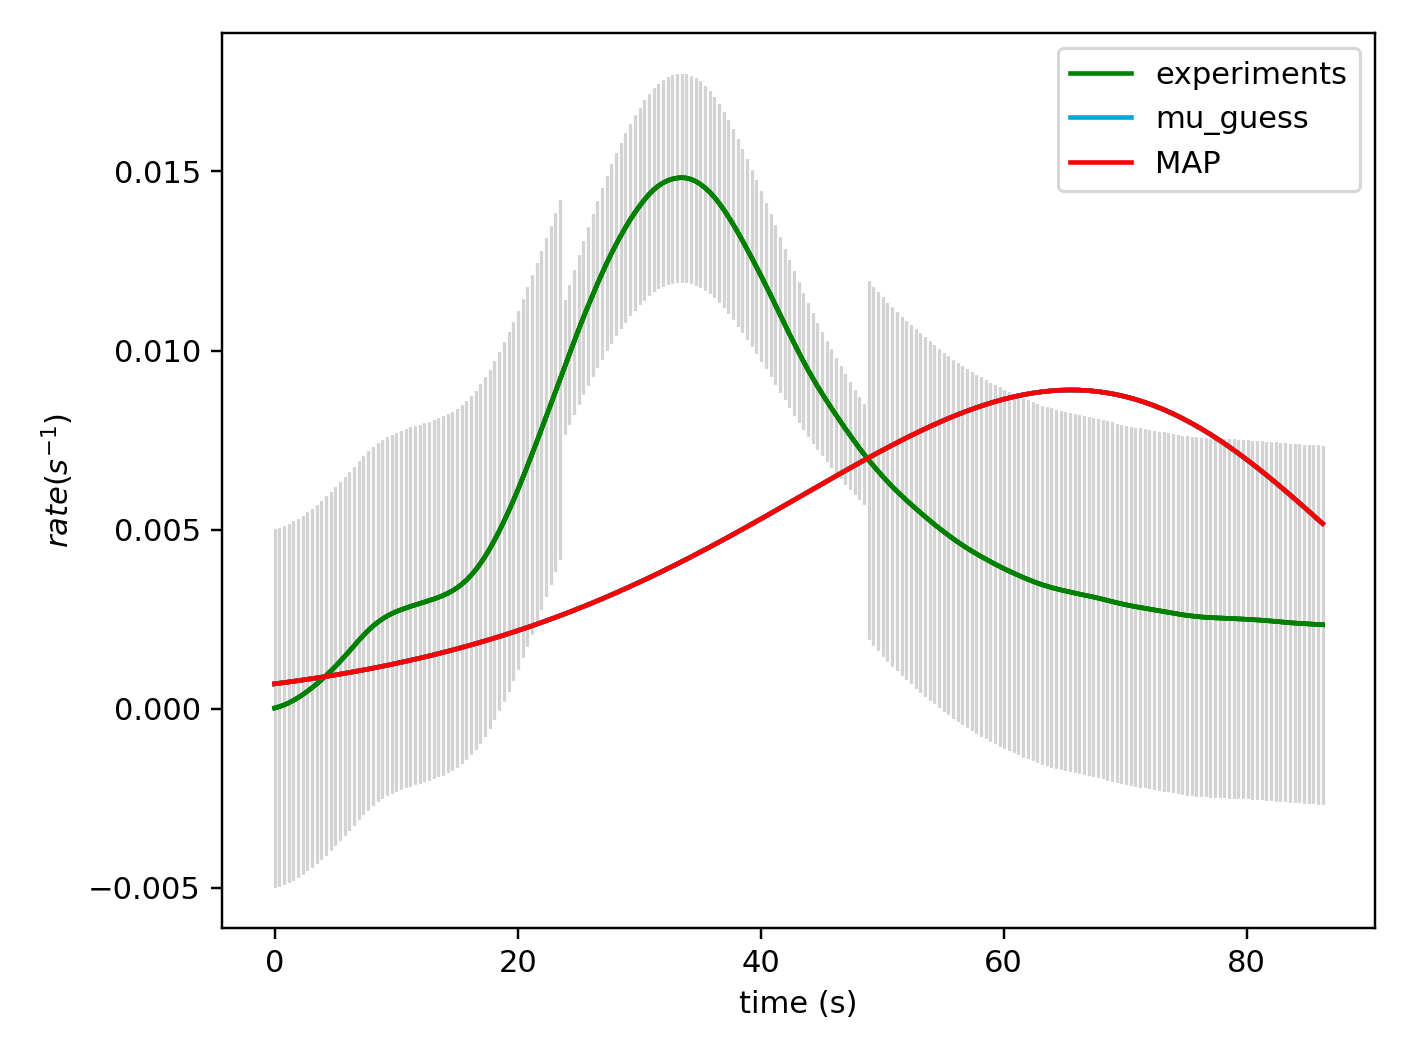
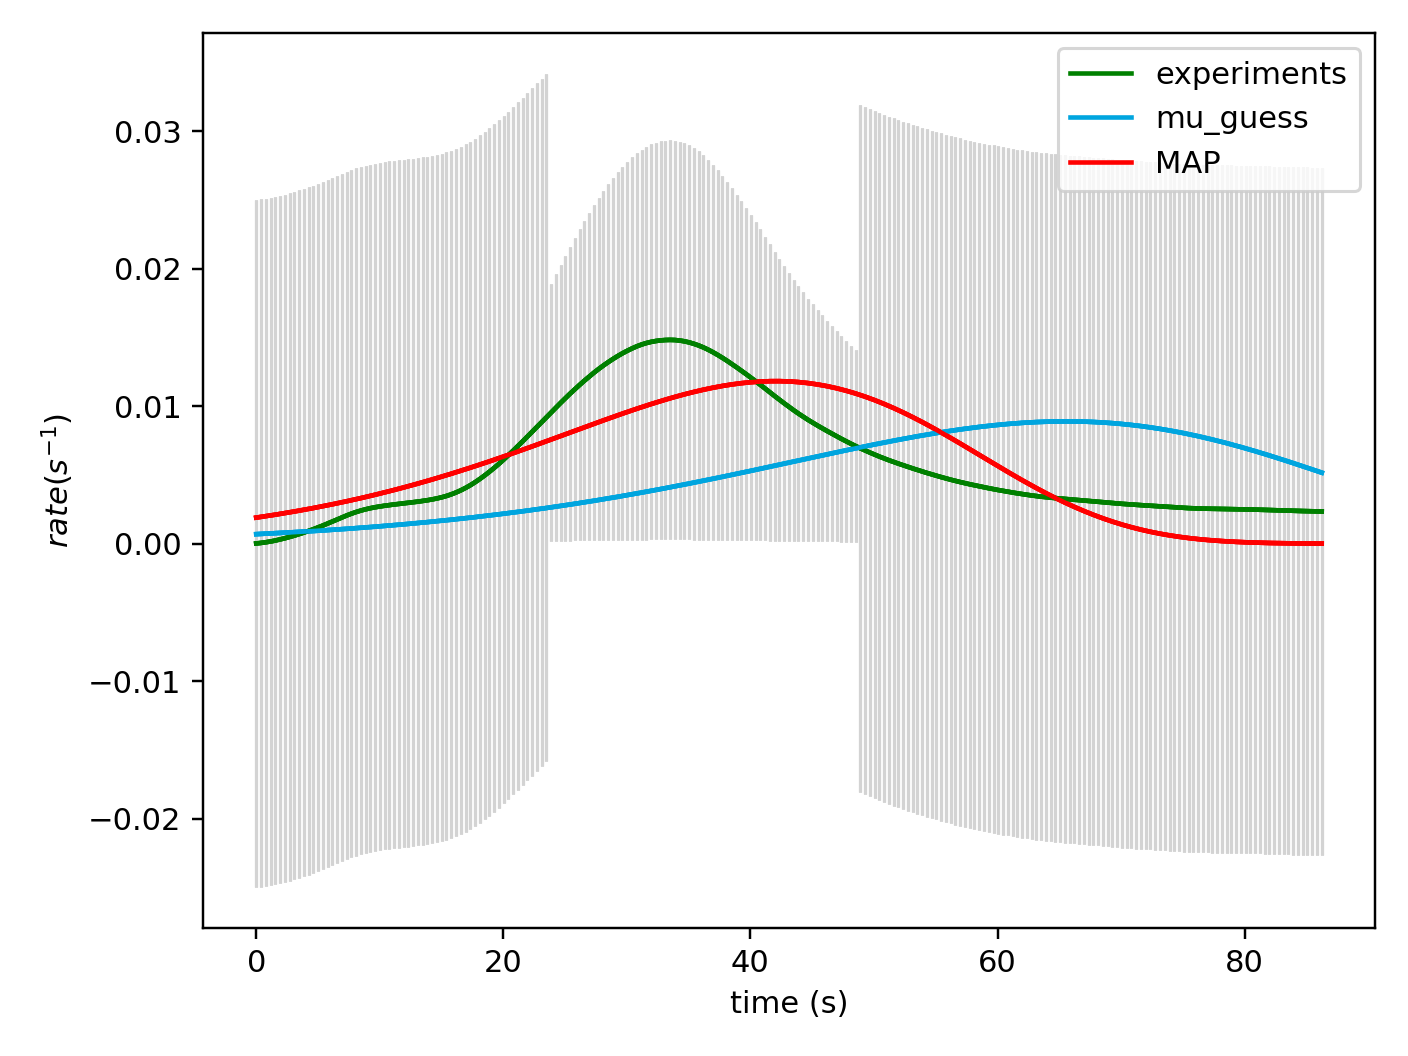
Add files via upload
'getLikelihood' now 'getLogLikelihood'; "getPrior" changed to "getLogPrior"; Metropolis Hastings functions uses the new functions;  'Accept_probability' changed to addition and subtraction due to log form; uniform random number transformed as a power of 10 (log's are log10's)

diff --git a/CheKiPEUQ.py b/CheKiPEUQ.py
@@ -223,10 +223,10 @@ class parameter_estimation:
             
 
     def getLogP(self, proposal_sample): #The proposal sample is specific parameter vector.
-        [likelihood_proposal, simulationOutput_proposal] = self.getLikelihood(proposal_sample)
-        prior_proposal = self.getPrior(proposal_sample)
-        log_postererior = np.log(likelihood_proposal) + np.log(prior_proposal)
-        return log_postererior, simulationOutput_proposal
+        [likelihood_proposal, simulationOutput_proposal] = self.getLogLikelihood(proposal_sample)
+        prior_proposal = self.getLogPrior(proposal_sample)
+        log_numerator_or_denominator = likelihood_proposal+prior_proposal #Of the Metropolis-Hastings accept/reject ratio
+        return log_numerator_or_denominator
         
     def getNegLogP(self, proposal_sample): #The proposal sample is specific parameter vector. We are using negative of log P because scipy optimize doesn't do maximizing. It's recommended minimize the negative in this situation.
         neg_log_postererior = -1*self.getLogP(proposal_sample)
@@ -280,22 +280,17 @@ class parameter_estimation:
                 mcmc_step_modulation_coefficient = np.random.uniform() + 0.5 #TODO: make this a 2D array. One for each parameter.
                 mcmc_step_modulation_history[i] = mcmc_step_modulation_coefficient
                 proposal_sample = samples[i-1,:] + np.random.multivariate_normal(self.Q_mu,self.Q_covmat*mcmc_step_dynamic_coefficient*mcmc_step_modulation_coefficient*self.UserInput.parameter_estimation_settings['mcmc_relative_step_length'])
-            prior_proposal = self.getPrior(proposal_sample)
-            prior_current_location = self.getPrior(samples[i-1,:]) 
-            if self.UserInput.logSpace == True:
-                [likelihood_proposal, simulationOutput_proposal] = self.getLogP(proposal_sample)    
-                [likelihood_current_location, simulationOutput_current_location] = self.getLogP(samples[i-1,:]) 
-                accept_probability = np.exp(likelihood_proposal - likelihood_current_location)
-            else:
-                [likelihood_proposal, simulationOutput_proposal] = self.getLikelihood(proposal_sample)
-                [likelihood_current_location, simulationOutput_current_location] = self.getLikelihood(samples[i-1,:]) #FIXME: the previous likelihood should be stored so that it doesn't need to be calculated again.
-                accept_probability = (likelihood_proposal*prior_proposal)/(likelihood_current_location*prior_current_location) 
+            prior_proposal = self.getLogPrior(proposal_sample)
+            [likelihood_proposal, simulationOutput_proposal] = self.getLogLikelihood(proposal_sample)
+            prior_current_location = self.getLogPrior(samples[i-1,:]) 
+            [likelihood_current_location, simulationOutput_current_location] = self.getLogLikelihood(samples[i-1,:]) #FIXME: the previous likelihood should be stored so that it doesn't need to be calculated again.
+            accept_probability = (likelihood_proposal + prior_proposal) - (likelihood_current_location + prior_current_location) 
             if self.UserInput.parameter_estimation_settings['verbose']: print('Current likelihood',likelihood_current_location, 'Proposed likelihood', likelihood_proposal, '\nAccept_probability (gauranteed if above 1)', accept_probability)
             if self.UserInput.parameter_estimation_settings['verbose']: print('Current posterior',likelihood_current_location*prior_current_location, 'Proposed Posterior', likelihood_proposal*prior_proposal)
             if self.UserInput.parameter_estimation_settings['mcmc_modulate_accept_probability'] != 0: #This flattens the posterior by accepting low values more often. It can be useful when greater sampling is more important than accuracy.
                 N_flatten = float(self.UserInput.parameter_estimation_settings['mcmc_modulate_accept_probability'])
                 accept_probability = accept_probability**(1/N_flatten) #TODO: add code that unflattens the final histograms, that way even with more sampling we still get an accurate final posterior distribution. We can also then add a flag if the person wants to keep the posterior flattened.
-            if accept_probability > np.random.uniform():  #TODO: keep a log of the accept and reject. If the reject ratio is >90% or some other such number, warn the user.
+            if accept_probability > np.power(10,np.random.uniform()):  #TODO: keep a log of the accept and reject. If the reject ratio is >90% or some other such number, warn the user.
                 if self.UserInput.parameter_estimation_settings['verbose']:
                   print('accept', proposal_sample)
                   sys.stdout.flush()
@@ -406,11 +401,11 @@ class parameter_estimation:
         if abs((self.map_parameter_set - self.mu_AP_parameter_set)/self.UserInput.var_prior).any() > 0.10:  
             print("Warning: The MAP parameter set and mu_AP parameter set differ by more than 10% of prior variance in at least one parameter. This may mean that you need to increase your mcmc_length, increase or decrease your mcmc_relative_step_length, or change what is used for the model response.  There is no general method for knowing the right  value for mcmc_relative_step_length since it depends on the sharpness and smoothness of the response. See for example https://www.sciencedirect.com/science/article/pii/S0039602816300632  ")
         return [self.map_parameter_set, self.mu_AP_parameter_set, self.stdap_parameter_set, self.evidence, self.info_gain, self.post_burn_in_samples, self.post_burn_in_logP_un_normed_vec] # EAW 2020/01/08
-    def getPrior(self,discreteParameterVector):
+    def getLogPrior(self,discreteParameterVector):
         discreteParameterVector_scaled = np.array(discreteParameterVector/self.UserInput.scaling_uncertainties)
         probability = multivariate_normal.pdf(x=discreteParameterVector_scaled,mean=self.UserInput.mu_prior_scaled,cov=self.UserInput.covmat_prior_scaled)
-        return probability
-    def getLikelihood(self,discreteParameterVector): #The variable discreteParameterVector represents a vector of values for the parameters being sampled. So it represents a single point in the multidimensional parameter space.
+        return np.log10(probability)
+    def getLogLikelihood(self,discreteParameterVector): #The variable discreteParameterVector represents a vector of values for the parameters being sampled. So it represents a single point in the multidimensional parameter space.
         simulationFunction = self.UserInput.model['simulateByInputParametersOnlyFunction']
         simulationOutputProcessingFunction = self.UserInput.model['simulationOutputProcessingFunction']
         try:
@@ -435,11 +430,14 @@ class parameter_estimation:
         responses_covmat_shape = np.shape(responses_covmat)
         if len(responses_covmat_shape) == 1: #Matrix is square because has only one value.
             probability_metric = multivariate_normal.pdf(x=simulatedResponses_transformed_flattened,mean=observedResponses_transformed_flattened,cov=responses_covmat)
+            log_probability_metric = np.log10(probability_metric)
         elif responses_covmat_shape[0] == responses_covmat_shape[1]:  #Else it is 2D, check if it's square.
             probability_metric = multivariate_normal.pdf(x=simulatedResponses_transformed_flattened,mean=observedResponses_transformed_flattened,cov=responses_covmat)
             #TODO: Put in near-diagonal solution described in github.
+            log_probability_metric = np.log10(probability_metric)
         else:  #If it is not square, it's a list of variances so we need to take the 1D vector version.
             probability_metric = multivariate_normal.pdf(x=simulatedResponses_transformed_flattened,mean=observedResponses_transformed_flattened,cov=responses_covmat[0])    
+            log_probability_metric = np.log10(probability_metric)
             if probability_metric == 0:
                 log_probability_metric = 0 #Just initializing, then will multiply by each probability separately.
                 for responseValueIndex in range(len(simulatedResponses_transformed_flattened)):
@@ -447,9 +445,8 @@ class parameter_estimation:
                     if current_probability_metric != 0:
                         log_current_probability_metric = np.log10(current_probability_metric)
                         log_probability_metric = log_current_probability_metric + log_probability_metric
-                print(log_probability_metric)
-                probability_metric = 10**(log_probability_metric)
-        return probability_metric, simulatedResponses.flatten()
+            print(log_probability_metric)
+        return log_probability_metric, simulatedResponses.flatten()
 
     def makeHistogramsForEachParameter(self):
         import plotting_functions

diff --git a/runfile_Example7_fromExample3.py b/runfile_Example7_fromExample3.py
@@ -11,8 +11,7 @@ if __name__ == "__main__":
     
     UserInput.responses['responses_abscissa'] = times
     UserInput.responses['responses_observed'] = responses_observed
-    UserInput.responses['responses_observed_uncertainties'] = observedResponses_uncertainties*1.0
-    UserInput.logSpace = True    
+    UserInput.responses['responses_observed_uncertainties'] = observedResponses_uncertainties*5.0
 
     UserInput.model['kinetics_type'] = 'transient'
     UserInput.responses['response_types']=['P'] 
